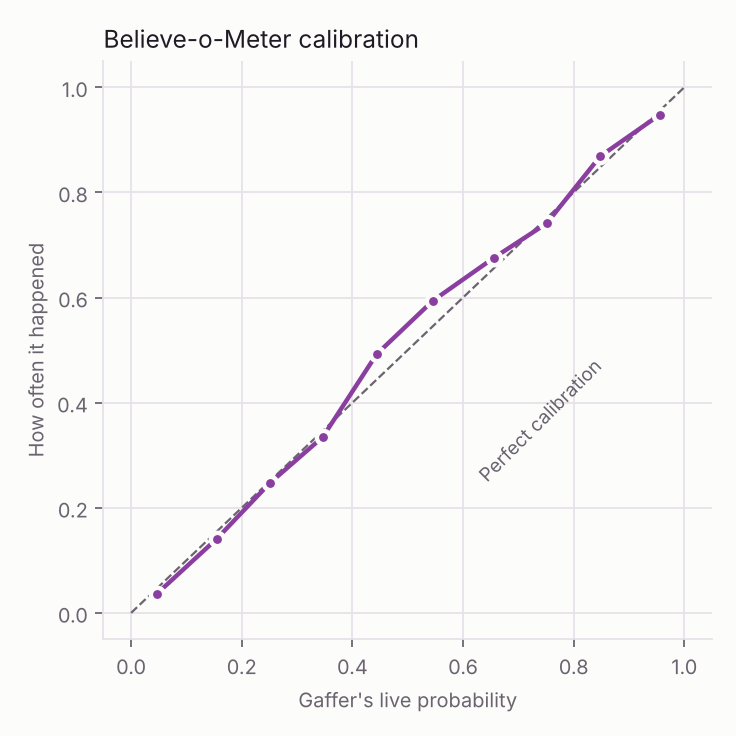
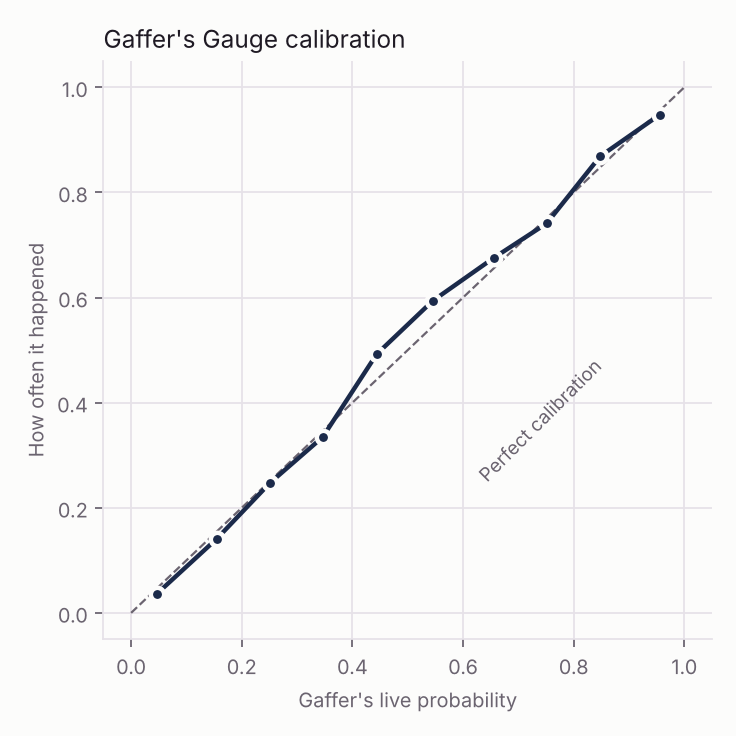
Rename the meter to Gaffer's Gauge; charts and crest sheet in the Midnight palette
Gaffer's Gauge in English, Medidor del/do Gaffer and Jauge du Gaffer in the
other languages. The MCP tool is now gaffers_gauge. Docs, model report and the
showcase, calibration and crest images follow the new name and palette.

Claude-Session: https://claude.ai/code/session_01VjVdm676emTWmPPf7gxrFH

diff --git a/web/src/i18n.ts b/web/src/i18n.ts
@@ -9,7 +9,7 @@ const S = {
   upNext: { en: "Up next", es: "A continuación", pt: "A seguir", fr: "À suivre" },
   fullTime: { en: "Full time", es: "Final", pt: "Encerrado", fr: "Terminé" },
   halfTime: { en: "Halftime", es: "Descanso", pt: "Intervalo", fr: "Mi-temps" },
-  meter: { en: "Believe-o-Meter", es: "Believe-o-Meter", pt: "Believe-o-Meter", fr: "Believe-o-Meter" },
+  meter: { en: "Gaffer's Gauge", es: "Medidor del Gaffer", pt: "Medidor do Gaffer", fr: "Jauge du Gaffer" },
   draw: { en: "Draw", es: "Empate", pt: "Empate", fr: "Nul" },
   whyMoved: { en: "Why it moved", es: "Por qué cambió", pt: "Por que mudou", fr: "Pourquoi ça bouge" },
   callIt: { en: "Call it", es: "Predícelo", pt: "Crave", fr: "Pronostique" },
@@ -26,7 +26,7 @@ const S = {
     en: "Next challenge soon. Keep an eye on the {meter}.",
     es: "Pronto llega otro reto. Atento al {meter}.",
     pt: "Novo desafio em breve. De olho no {meter}.",
-    fr: "Prochain défi bientôt. Surveille le {meter}.",
+    fr: "Prochain défi bientôt. Surveille la {meter}.",
   },
   appearance: { en: "Appearance", es: "Apariencia", pt: "Aparência", fr: "Apparence" },
   dark: { en: "Dark", es: "Oscuro", pt: "Escuro", fr: "Sombre" },

diff --git a/docs/charts/render_meter.py b/docs/charts/render_meter.py
@@ -1,4 +1,4 @@
-"""Render the showcase Believe-o-Meter chart (docs/img/believe_o_meter_example.png).
+"""Render the showcase Gaffer's Gauge chart (docs/img/gaffers_gauge_example.png).
 
     python docs/charts/render_meter.py
 
@@ -19,8 +19,9 @@ ROOT = Path(__file__).resolve().parents[2]
 MATCH = "S5-MD07-03"
 FONTS = ROOT / "web" / "node_modules" / "@fontsource"
 
-BG, CARD, LINE, INK, MUTED, SOFT = "#1A0B20", "#221028", "#3D2447", "#F4F1F6", "#A99AB0", "#C9BCCF"
-HOME, DRAW, AWAY, RED = "#D3D7DE", "#7E5E8C", "#D8B26E", "#FF6B7A"
+BG, CARD, LINE, INK, MUTED, SOFT = "#0A1020", "#111A2E", "#34466B", "#F2F5FA", "#8E9AB3", "#B8C3D6"
+HOME, DRAW, AWAY, RED = "#E6EBF2", "#34466B", "#7B93C4", "#FF6B7A"
+GOLD = "#C9A45C"
 
 
 def load() -> tuple[list[dict], dict, dict]:
@@ -138,12 +139,12 @@ html,body{{margin:0;background:{BG};}}</style></head><body>
 <svg width="{W}" height="{H}" viewBox="0 0 {W} {H}" xmlns="http://www.w3.org/2000/svg">
 <rect width="{W}" height="{H}" fill="{BG}"/>
 <g transform="translate(96,0)">
-  <g transform="translate(0,78)" fill="{AWAY}"><g transform="scale(1.6)" fill="none" stroke="{AWAY}"
+  <g transform="translate(0,78)" fill="{GOLD}"><g transform="scale(1.6)" fill="none" stroke="{GOLD}"
     stroke-width="1.8" stroke-linecap="round"><ellipse cx="13.5" cy="9" rx="7.5" ry="5"/>
     <path d="M8.5 12.5c-1.5 2-1.2 4 .6 5s2.2 2.6.6 4.5"/></g></g>
   <text x="48" y="104" fill="{INK}" font-family="Sora" font-weight="700" font-size="28">lasso</text>
-  <text x="150" y="104" fill="{AWAY}" font-family="DM Sans" font-weight="700" font-size="16"
-    letter-spacing="2.4">BELIEVE-O-METER · HELD-OUT SEASON REPLAY</text>
+  <text x="150" y="104" fill="{GOLD}" font-family="DM Sans" font-weight="700" font-size="16"
+    letter-spacing="2.4">GAFFER’S GAUGE · HELD-OUT SEASON REPLAY</text>
   <text x="0" y="172" fill="{INK}" font-family="Barlow Condensed" font-weight="600" font-size="58"
     letter-spacing="0.5">{meta['home'].upper()} {meta['score'][0]} : {meta['score'][1]} {meta['away'].upper()}</text>
   <text x="0" y="214" fill="{SOFT}" font-family="DM Sans" font-size="21">Down to ten men in the 5th minute.
@@ -159,8 +160,8 @@ html,body{{margin:0;background:{BG};}}</style></head><body>
 <text x="{left + pw + 18}" y="{top + ph / 2 + 5}" fill="{MUTED}" font-family="DM Sans" font-size="15">50%</text>
 <text x="{left + pw + 18}" y="{top + ph + 5}" fill="{MUTED}" font-family="DM Sans" font-size="15">0%</text>
 <g transform="translate({fx - 300:.1f},{top + 120})">
-  <rect width="270" height="118" rx="20" fill="{CARD}" stroke="{AWAY}" stroke-width="1.5"/>
-  <text x="22" y="34" fill="{AWAY}" font-family="DM Sans" font-weight="700" font-size="14"
+  <rect width="270" height="118" rx="20" fill="{CARD}" stroke="{GOLD}" stroke-width="1.5"/>
+  <text x="22" y="34" fill="{GOLD}" font-family="DM Sans" font-weight="700" font-size="14"
     letter-spacing="1.6">82' WINNER</text>
   <text x="22" y="88" fill="{INK}" font-family="Barlow Condensed" font-weight="600" font-size="54">
     {round(before['home'] * 100)}%<tspan fill="{MUTED}" font-size="40"> → </tspan>{round(winner['home'] * 100)}%</text>
@@ -176,7 +177,7 @@ async def render(out: Path) -> None:
     from playwright.async_api import async_playwright
 
     traj, meta, events = load()
-    html = ROOT / "docs" / "charts" / "believe_o_meter.html"
+    html = ROOT / "docs" / "charts" / "gaffers_gauge.html"
     html.write_text(page(traj, meta, events))
     async with async_playwright() as p:
         b = await p.chromium.launch()
@@ -188,5 +189,5 @@ async def render(out: Path) -> None:
 
 
 if __name__ == "__main__":
-    asyncio.run(render(ROOT / "docs" / "img" / "believe_o_meter_example.png"))
-    print("wrote docs/img/believe_o_meter_example.png")
+    asyncio.run(render(ROOT / "docs" / "img" / "gaffers_gauge_example.png"))
+    print("wrote docs/img/gaffers_gauge_example.png")

diff --git a/engine/lasso_engine/evaluate.py b/engine/lasso_engine/evaluate.py
@@ -30,7 +30,7 @@ from .training import SNAPSHOT_GRID, TEST_SEASON, TRAIN_SEASONS, load, snapshots
 DEMO_MATCH = "S5-MD07-03"  # ten-man comeback, deterministic with seed 7
 
 # Validated categorical palette (dataviz validator: light surface, all checks pass).
-PLUM, GOLD, BLUE = "#8A3FA0", "#B8862F", "#2F7DC4"
+PLUM, GOLD, BLUE = "#1B2A4A", "#A27A34", "#5B78B0"
 INK, MUTED, GRID, SURFACE = "#1F1A24", "#6B6470", "#E6E2E8", "#FCFCFB"
 
 
@@ -64,7 +64,7 @@ def oracle_prematch(matches: pd.DataFrame, truth: pd.DataFrame, cfg: dict, form_
     return np.array(out)
 
 
-def believe_o_meter_path(match_id: str, events: pd.DataFrame, matches: pd.DataFrame,
+def gaffers_gauge_path(match_id: str, events: pd.DataFrame, matches: pd.DataFrame,
                          pre: pd.DataFrame, params: InPlayParams,
                          club_short: dict | None = None) -> pd.DataFrame:
     """Minute-by-minute and event-by-event probabilities for one match."""
@@ -241,9 +241,9 @@ def main() -> None:
     results["remaining_goals_loglik"] = goal_ll
     results["log_bayes_factor_vs_naive"] = goal_ll["Gaffer"] - goal_ll["Score & clock only"]
 
-    # Believe-o-Meter trajectory for the showcase match.
+    # Gaffer's Gauge trajectory for the showcase match.
     club_tbl = pd.read_parquet(data / "clubs.parquet").set_index("club_id")
-    traj = believe_o_meter_path(DEMO_MATCH, test_ev, test, pre, params, club_tbl["short"].to_dict())
+    traj = gaffers_gauge_path(DEMO_MATCH, test_ev, test, pre, params, club_tbl["short"].to_dict())
     traj.to_json(model_dir / "demo_trajectory.json", orient="records")
     # The showcase chart itself is drawn by docs/charts/render_meter.py from this JSON.
 
@@ -256,7 +256,7 @@ def main() -> None:
     ax.text(0.62, 0.25, "Perfect calibration", color=MUTED, fontsize=8.5, rotation=45)
     ax.set_xlabel("Gaffer's live probability", color=MUTED, fontsize=9)
     ax.set_ylabel("How often it happened", color=MUTED, fontsize=9)
-    ax.set_title("Believe-o-Meter calibration", color=INK, fontsize=11, loc="left")
+    ax.set_title("Gaffer's Gauge calibration", color=INK, fontsize=11, loc="left")
     fig.tight_layout()
     fig.savefig(img / "reliability.png", facecolor=SURFACE)
     plt.close(fig)
@@ -268,7 +268,7 @@ def main() -> None:
         _style(ax)
         lim = max(np.abs(np.r_[est, tr]).max() * 1.15, 0.1)
         ax.plot([-lim, lim], [-lim, lim], color=MUTED, linewidth=1, linestyle="--")
-        ax.errorbar(tr, est, yerr=1.645 * err, fmt="o", color=PLUM, ecolor="#C9A6D4",
+        ax.errorbar(tr, est, yerr=1.645 * err, fmt="o", color=PLUM, ecolor="#93A3C2",
                     elinewidth=1.5, markersize=6, markeredgecolor=SURFACE, markeredgewidth=1.5)
         ax.set_xlim(-lim, lim)
         ax.set_ylim(-lim, lim)

diff --git a/services/agents/lasso_agents/team.py b/services/agents/lasso_agents/team.py
@@ -27,7 +27,7 @@ Return ONLY JSON: {"facts": [three short facts, each with a number], "momentum":
 "spotlight": "one player or team doing something notable, with a number"}."""
 
 GAFFER = """You are the Gaffer's voice: you interpret a Bayesian in-play model for fans.
-Use why_it_moved and believe_o_meter (and team_form if useful) for the match in the brief.
+Use why_it_moved and gaffers_gauge (and team_form if useful) for the match in the brief.
 Return ONLY JSON: {"summary": "one sentence on what moved the win chances and why, citing the biggest
 Shapley driver in points", "confidence_note": "one short sentence on how settled or open the match is"}."""
 
@@ -91,7 +91,7 @@ def build_team(cfg: AgentSettings, fast_client, writer_client, options: dict | N
     return Team(
         stats=Agent(fast_client, STATS, name="stats", description="Turns events into numbers that matter",
                     tools=[mcp], **opts),
-        gaffer=Agent(fast_client, GAFFER, name="gaffer", description="Explains the Bayesian Believe-o-Meter",
+        gaffer=Agent(fast_client, GAFFER, name="gaffer", description="Explains the Gaffer's Gauge, the Bayesian win-chance model",
                      tools=[mcp], **opts),
         narrator=Agent(writer_client, NARRATOR, name="narrator", description="Multilingual match storyteller", **opts),
         persona=Agent(writer_client, PERSONA, name="persona", description="Tailors moments to each fan", **opts),

diff --git a/services/api/lasso_api/mcp_tools.py b/services/api/lasso_api/mcp_tools.py
@@ -18,7 +18,7 @@ from .matchroom import MatchRoom
 
 INSTRUCTIONS = (
     "Live football match intelligence from the Gaffer, a Bayesian in-play model. Probabilities are "
-    "calibrated. The Believe-o-Meter is each side's chance of winning, plus the draw. Explanations use exact "
+    "calibrated. The Gaffer's Gauge is each side's chance of winning, plus the draw. Explanations use exact "
     "Shapley attribution across goals, red cards, chances (xG) and the clock. All data is synthetic."
 )
 
@@ -35,12 +35,12 @@ def build_mcp(rooms: dict[str, MatchRoom]) -> FastMCP:
 
     @mcp.tool()
     def list_live_matches() -> list[dict]:
-        """List matches with status, score, minute and the current Believe-o-Meter."""
+        """List matches with status, score, minute and the current Gaffer's Gauge."""
         return [{k: r.summary()[k] for k in ("match_id", "status", "score", "minute", "probs")}
                 | {"home": r.names[0], "away": r.names[1]} for r in rooms.values()]
 
     @mcp.tool()
-    def believe_o_meter(match_id: str) -> dict:
+    def gaffers_gauge(match_id: str) -> dict:
         """Current win/draw/loss probabilities, score, minute, red cards and xG for a match,
         plus the pre-match probabilities for comparison."""
         r = room(match_id)

diff --git a/engine/lasso_engine/inplay.py b/engine/lasso_engine/inplay.py
@@ -7,7 +7,7 @@ plus goals) updates that Gamma conjugately, with time "exposure" adjusted for
 game state: being a man down, trailing or leading, and the late-game surge
 all change how fast a team creates chances. The number of goals still to come
 is then Negative Binomial (Gamma-Poisson), which gives closed-form win, draw
-and loss probabilities for the Believe-o-Meter in microseconds.
+and loss probabilities for the Gaffer's Gauge in microseconds.
 
     rate_T  ~ Gamma(shape = k + w * evidence_T,  rate = k / r0_T + w * exposure_T)
     remaining_goals_T ~ NegBin(shape, rate / (rate + remaining_minutes * multiplier_T))
@@ -206,7 +206,7 @@ class Gaffer:
 
 
 class LiveMatch:
-    """Replays a stream of events, maintaining state and the Believe-o-Meter."""
+    """Replays a stream of events, maintaining state and the Gaffer's Gauge."""
 
     def __init__(self, gaffer: Gaffer, home_id: str, away_id: str):
         self.g = gaffer

diff --git a/engine/tests/test_engine.py b/engine/tests/test_engine.py
@@ -88,7 +88,7 @@ def test_gaffer_probabilities_are_coherent():
     assert g.probabilities(s)["home"] == pytest.approx(1.0)
 
 
-def test_red_card_and_goal_move_the_believe_o_meter_the_right_way():
+def test_red_card_and_goal_move_the_gaffers_gauge_the_right_way():
     g = Gaffer(1.4, 1.4, InPlayParams())
     live = LiveMatch(g, "H", "A")
     live.apply({"type": "shot", "period": 1, "clock": 10.0, "team_id": "X", "xg": 0.1, "outcome": False})

diff --git a/services/api/lasso_api/matchroom.py b/services/api/lasso_api/matchroom.py
@@ -1,4 +1,4 @@
-"""A live match: state, stats, the Believe-o-Meter, moments and Call It markets."""
+"""A live match: state, stats, the Gaffer's Gauge, moments and Call It markets."""
 
 from __future__ import annotations
 

diff --git a/engine/lasso_engine/explain.py b/engine/lasso_engine/explain.py
@@ -1,4 +1,4 @@
-"""Why did the Believe-o-Meter move? Exact Shapley attribution.
+"""Why did the Gaffer's Gauge move? Exact Shapley attribution.
 
 Between two moments A and B in a match, four things can change:
 

diff --git a/README.md b/README.md
@@ -5,7 +5,7 @@
 Lasso is a live, multi-agent match companion for phones and broadcasts, built for the Microsoft and Premier League *Inside the Game* hackathon.
 
 - It ingests synthetic football events in real time.
-- It updates a Bayesian win-probability model, **the Gaffer**, with every chance, card and goal. The model's output is the **Believe-o-Meter**.
+- It updates a Bayesian win-probability model, **the Gaffer**, with every chance, card and goal. The model's output is the **Gaffer's Gauge**.
 - It explains every swing, so fans know *why* it moved.
 - It invites fans to make free-to-play **Call It** predictions against the Gaffer's own odds, with streaks, moment cards, missions and friend leagues. Biscuits are in-app points with no cash value.
 
@@ -77,7 +77,7 @@ flowchart LR
 
 ### What happens when a goal goes in
 
-The Believe-o-Meter and an instant story reach phones in under a second. The five agents' richer version follows a few seconds later, so the app never waits on a language model.
+The Gaffer's Gauge and an instant story reach phones in under a second. The five agents' richer version follows a few seconds later, so the app never waits on a language model.
 
 ```mermaid
 sequenceDiagram
@@ -89,12 +89,12 @@ sequenceDiagram
     participant M as MCP tools
     F->>A: 82' shot, 0.51 xG, goal
     Note over A: Bayesian update + Shapley drivers, in microseconds
-    A-->>P: Believe-o-Meter 11% to 83% + instant story
+    A-->>P: Gaffer's Gauge 11% to 83% + instant story
     A->>D: A2A moment brief
     par Stage one
         D->>M: Stats agent: match_stats, recent_events
     and
-        D->>M: Gaffer agent: why_it_moved, believe_o_meter
+        D->>M: Gaffer agent: why_it_moved, gaffers_gauge
     end
     par Stage two
         Note over D: Narrator writes EN, ES, PT, FR
@@ -121,7 +121,7 @@ Here's how the code covers the brief's five stages:
 ## The model, in numbers (held-out season; see the [model report](docs/model-report.md))
 
 - **85%** of the best possible pre-match accuracy (ranked probability score against an oracle that knows the hidden true strengths)
-- **1.5 points** average calibration error on the live Believe-o-Meter
+- **1.5 points** average calibration error on the live Gaffer's Gauge
 - **0.95 / 0.91** correlation between the estimated and the hidden true attack and defense strengths
 - The fast Laplace posterior matches full NUTS MCMC (posterior means correlate at 0.99996)
 - **2.2M** synthetic events across 1,900 matches and five seasons, with a hidden truth to evaluate against
@@ -164,7 +164,7 @@ python -m lasso_engine.generate --out ../data/league --seed 7
 python -m lasso_engine.training --data ../data/league --out ../data/model
 python -m lasso_engine.evaluate --data ../data/league --model ../data/model --docs ../docs
 python -m lasso_engine.export_demo
-cd .. && python docs/charts/render_meter.py   # the showcase Believe-o-Meter chart
+cd .. && python docs/charts/render_meter.py   # the showcase Gaffer's Gauge chart
 ```
 
 ## Responsible design

diff --git a/docs/model-report.md b/docs/model-report.md
@@ -74,7 +74,7 @@ The learned score-state effects are pulled toward 1. That is a real confounder: 
 
 ## 4. Explanations: exact Shapley attribution
 
-Each move of the Believe-o-Meter is split across four parts: **goals, red cards, chances (xG) and the clock**. This uses exact Shapley values (16 model evaluations), and the parts sum exactly to the total change.
+Each move of the Gaffer's Gauge is split across four parts: **goals, red cards, chances (xG) and the clock**. This uses exact Shapley values (16 model evaluations), and the parts sum exactly to the total change.
 
 Example (Eastholme Rangers 2-1 Brackenford City, with Eastholme down to ten men from the 5th minute). Eastholme's win chance went from 46% at kickoff to 10% by the 13th minute:
 
@@ -85,7 +85,7 @@ Example (Eastholme Rangers 2-1 Brackenford City, with Eastholme down to ten men 
 | Chances created | +4 pts |
 | Clock | −2 pts |
 
-![Believe-o-Meter](img/believe_o_meter_example.png)
+![Gaffer's Gauge](img/gaffers_gauge_example.png)
 
 ## 5. Call It pricing
 

diff --git a/.github/copilot-instructions.md b/.github/copilot-instructions.md
@@ -1,6 +1,6 @@
 # Copilot instructions for Lasso
 
-Lasso is a live, multi-agent football match companion built for the Microsoft and Premier League *Inside the Game* hackathon (submission deadline: Oct 27, 2026). It replays synthetic matches and updates a Bayesian win-probability model, **the Gaffer**, with every event. The model's output is the **Believe-o-Meter**. Five AI agents explain each swing, and fans make free-to-play **Call It** predictions against the model.
+Lasso is a live, multi-agent football match companion built for the Microsoft and Premier League *Inside the Game* hackathon (submission deadline: Oct 27, 2026). It replays synthetic matches and updates a Bayesian win-probability model, **the Gaffer**, with every event. The model's output is the **Gaffer's Gauge**. Five AI agents explain each swing, and fans make free-to-play **Call It** predictions against the model.
 
 Read `README.md`, `docs/model-report.md` and `docs/DEPLOY.md` before making non-trivial changes.
 
